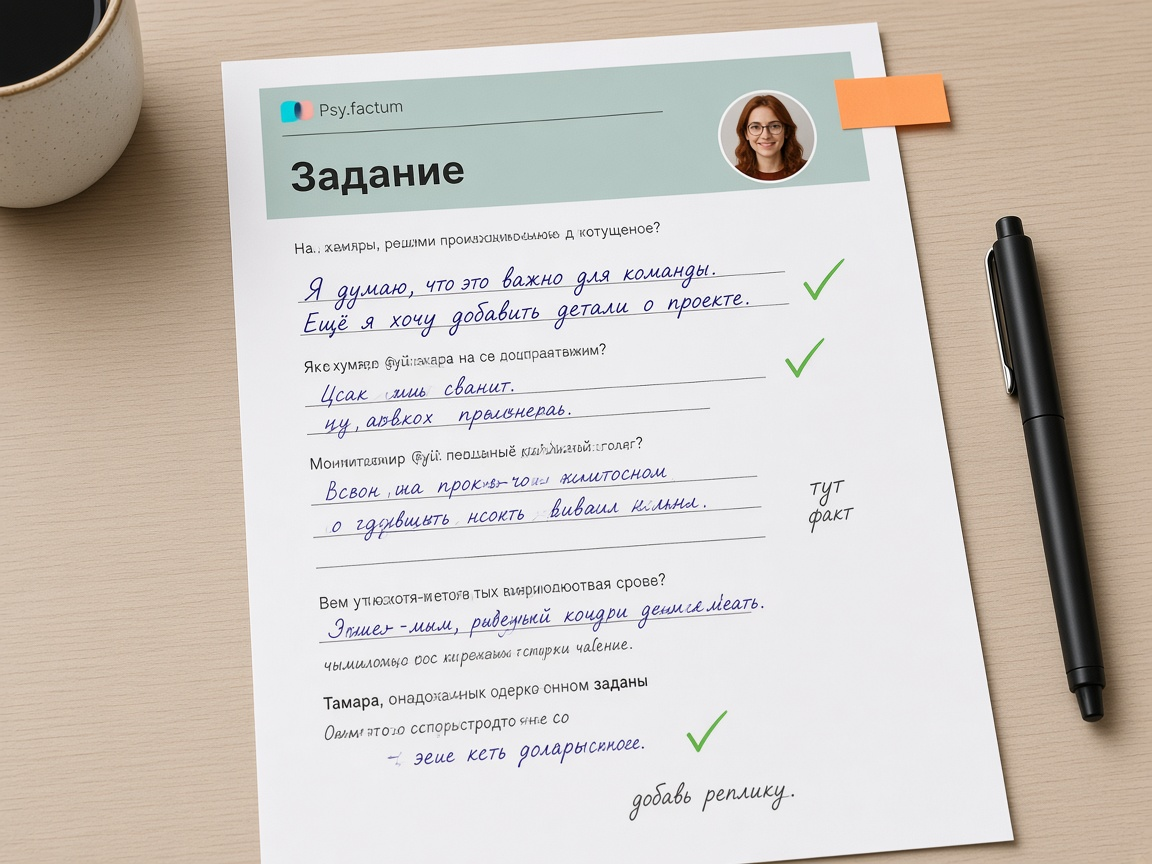
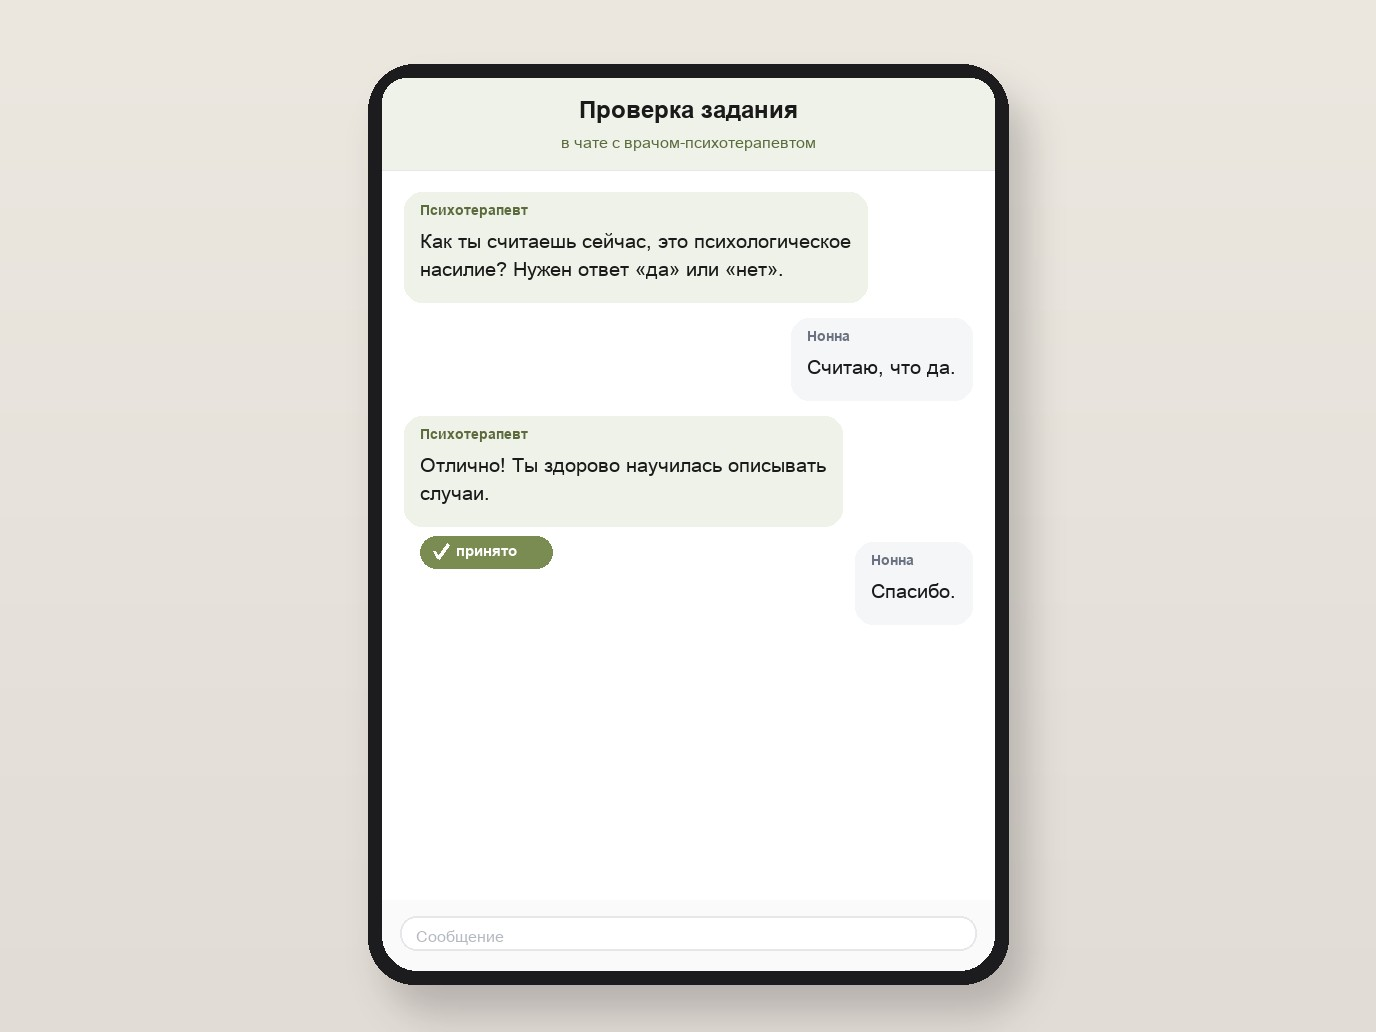
Show homework check as a chat, not a handwritten sheet.

diff --git a/predzapis.html b/predzapis.html
@@ -383,7 +383,7 @@
             <p>232 разбора, проведённых в чате Школы здоровых отношений в период с 2022 по 2026 год</p>
           </article>
           <article class="how-slide">
-            <div class="how-pic"><img src="assets/how-review.jpg" alt="Проверка домашних заданий" width="1024" height="768"></div>
+            <div class="how-pic"><img src="assets/how-review.jpg" alt="Проверка домашнего задания в чате" width="1376" height="1032"></div>
             <h3>Проверка домашних заданий</h3>
             <p>Только на тарифе с куратором: врачом-психотерапевтом или психологом</p>
           </article>
